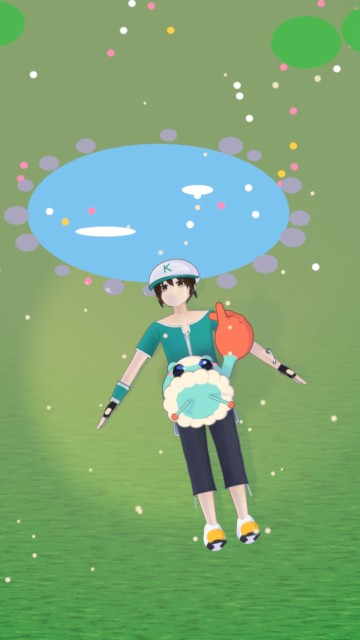
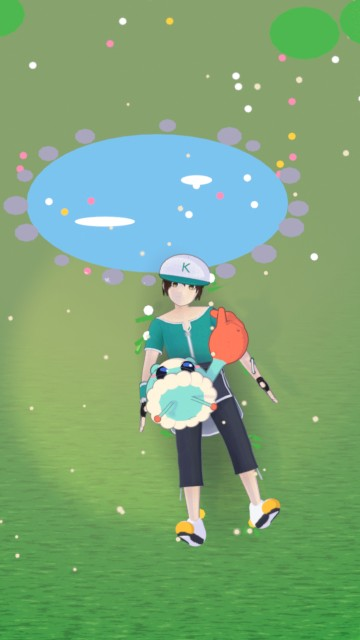
Diorama bGqrs: Kai relaxed on his back (helper 10's LYING_RELAXED with both hands by his hips, head toward the shrimp), contact shadow and grass tufts; S01 smoke and embers drifting over the top third; S01/S17/S18 locked (2D push-ins); bgqrs_post DIORAMA=1: the pushes, S17's drop glint, S18's realis
Claude-Session: https://claude.ai/code/session_01PF511bGqrs1SFn3cpk5NqS

diff --git a/channels/monsters/diorama/bgqrs.py b/channels/monsters/diorama/bgqrs.py
@@ -58,24 +58,56 @@ def _set(n):
     return [(x, y) for x, y, *_ in near]
 
 
+# On his back, relaxed (so it reads as LYING from above, not as a standing T-pose): helper 10's LYING_RELAXED (S15's
+# end) with both arms loose at his sides, hands by his hips (the shrimp sits on his chest), head tilted toward it.
+# Directions in Kai's own frame: +X his right, +Y forward (up once he lies down), +Z toward his head.
+LYING = [("spine", (0, 0, 1)), ("chest", (0, 0, 1)), ("upper_chest", (0, 0, 1)), ("neck", (-0.1, 0.1, 1)),
+         ("head", (-0.4, 0.2, 1)),
+         ("right_upper_arm", (0.45, 0.1, -1)), ("right_lower_arm", (0.3, 0.3, -1)),
+         ("left_upper_arm", (-0.45, 0.1, -1)), ("left_lower_arm", (-0.35, 0.25, -1)),
+         ("left_upper_leg", (-0.12, 0.45, -1)), ("right_upper_leg", (0.15, 0.3, -1)),
+         ("left_lower_leg", (-0.1, -0.2, -1)), ("right_lower_leg", (0.15, -0.12, -1)),
+         ("left_foot", (-0.25, 1, -0.3)), ("right_foot", (0.3, 1, -0.3))]
+
+
 def _kai():
-    """Kai on his back at MAP["kai_down"], face up, arms out loose (knocked flat), head toward the pond."""
+    """Kai on his back at MAP["kai_down"], relaxed (LYING), head toward the pond; a soft contact shadow under him and
+    grass tufts over his outline, so he lies IN the grass."""
+    from channels.monsters.ep01v2 import helper10 as s15
     rig = hero.load((0, 0, 0), scale=s3d.KAI_SCALE, outfit="world")
-    for side, a in (("left", -48), ("right", 48)):
-        b = rig["bone"](f"{side}_upper_arm")
-        b.rotation_mode = "XYZ"
-        b.rotation_euler = (0, 0, math.radians(a))
-    hb = rig["bone"]("head")
-    hb.rotation_mode = "XYZ"
-    hb.rotation_euler = (math.radians(-4), math.radians(-12), 0)     # face up, rolled a touch toward the camera
-    feet = Vector((HIPS[0], HIPS[1], 0)) - UP * 0.5 * 8.7
-    arm = rig["arm"]
-    arm.location = (feet.x, feet.y, 0.55)
-    arm.rotation_mode = "XYZ"
-    arm.rotation_euler = (math.radians(-90), 0, math.radians(HEAD_DIR))
+    rot = (math.pi / 2, 0, math.pi + math.radians(HEAD_DIR))
+    s15._pose(rig, LYING, (HIPS[0], HIPS[1], 0.5), rot)
+    hip = s15._world(rig, "hips")
+    rig["arm"].location += Vector((HIPS[0] - hip.x, HIPS[1] - hip.y, 0))
+    s15._ground(rig)
     bpy.context.view_layer.update()
     hero.line_width(rig, 0.0025)
+    hip = s15._world(rig, "hips")
+    sh = look.blob_shadow("kai_down_shadow", (hip.x, hip.y, 0.03), (1.9, 5.2))
+    sh.rotation_euler = (0, 0, math.radians(HEAD_DIR))
+    _tufts(hip)
     return rig
+
+
+def _tufts(hip, seed=21):
+    """Grass tufts and a few flowers along his outline, overlapping it a little (lit paint, so they take the sun)."""
+    rnd = random.Random(seed)
+    blade = diorama.lit_paint("d16_tuft", "#2f8a36", "#4cb348", "#8fdb62")
+    petals = [diorama.lit_paint(f"d16_flower{i}", *c) for i, c in enumerate((("#c9c9e0", "#ffffff", "#ffffff"),
+                                                                             ("#d9a400", "#ffd23f", "#fff2a8")))]
+    for along, side in ((3.6, 1.15), (2.2, -1.35), (0.6, 1.5), (-0.8, -1.25), (-2.4, 0.95), (-3.6, -0.8),
+                        (-4.2, 0.7), (1.4, 1.6), (3.0, -1.0), (-1.6, 1.3)):
+        c = Vector(hip) + UP * along + EAST * side * rnd.uniform(0.9, 1.1)
+        for k in range(rnd.randint(4, 6)):                         # a clump of blades leaning outward
+            bpy.ops.mesh.primitive_cone_add(vertices=4, radius1=0.09, radius2=0.0, depth=rnd.uniform(0.7, 1.1),
+                                            location=(c.x + rnd.uniform(-0.25, 0.25), c.y + rnd.uniform(-0.25, 0.25),
+                                                      0.4))
+            o = bpy.context.object
+            o.rotation_euler = (rnd.uniform(-0.5, 0.5), rnd.uniform(-0.5, 0.5), rnd.uniform(0, 3))
+            o.data.materials.append(blade)
+        if rnd.random() < 0.5:
+            bpy.ops.mesh.primitive_uv_sphere_add(segments=8, ring_count=5, radius=0.16, location=(c.x, c.y, 0.75))
+            bpy.context.object.data.materials.append(rnd.choice(petals))
 
 
 def _shrimp(rig, n, claw="face"):
@@ -203,8 +235,9 @@ def _move(cam, n, keys, look_at, yaw=0.0):
     return cam
 
 
-def _anchors(shot, cam, rig, sh=None):
-    """Screen positions (720x1280, top-left origin) of his eyes and the claw tip per frame, for the 2D pass."""
+def _anchors(shot, cam, rig, sh=None, extra=None):
+    """Screen positions (720x1280, top-left origin) of his eyes and the claw tip per frame (plus `extra`: name ->
+    fn() -> world point), for the 2D pass."""
     from bpy_extras.object_utils import world_to_camera_view
     sc = bpy.context.scene
     out = {}
@@ -213,6 +246,8 @@ def _anchors(shot, cam, rig, sh=None):
         pts = {k: s3d.kai_point(rig, k) for k in ("eyes", "eye_l", "eye_r", "nose", "temple")}
         if sh is not None:
             pts["tip"] = s3d.claw_tip(sh)
+        for k, fn in (extra or {}).items():
+            pts[k] = fn()
         row = {}
         for k, p in pts.items():
             v = world_to_camera_view(sc, cam, p)
@@ -224,8 +259,53 @@ def _anchors(shot, cam, rig, sh=None):
     sc.frame_set(1)
 
 
-def _ret(n, subject):
-    return dict(frames=n, step=2, ones=(1, n), subject=subject)
+def _ret(n, subject, moving=True):
+    """Characters on 2s; a moving 3D camera renders on 1s. Locked shots get their slow push-in in 2D (TP13: <=10%)."""
+    return dict(frames=n, step=2, ones=(1, n), subject=subject) if moving else dict(frames=n, step=2, subject=subject)
+
+
+def _drift(n, box, seed=13):
+    """Smoke wisps and glowing embers drifting through `box` ((x0, x1), (y0, y1), (z0, z1)) from the north (from the
+    stumps beyond the frame), on 2s: S01's top third, under the hook text."""
+    rnd = random.Random(seed)
+    (x0, x1), (y0, y1), (z0, z1) = box
+    m = meadow.smoke_mat()
+    ember = look.flat("d16_ember", look.hexc("#ff9a4a"), strength=4.0)
+    objs = []
+    for i in range(8):
+        p = bpy.data.objects.new("puff_drift", None)
+        bpy.context.scene.collection.objects.link(p)
+        for k in range(5):
+            bpy.ops.mesh.primitive_uv_sphere_add(segments=16, ring_count=8, radius=rnd.uniform(0.5, 0.95),
+                                                 location=(rnd.uniform(-1.4, 1.4), rnd.uniform(-0.5, 0.5),
+                                                           rnd.uniform(-0.2, 0.3)))
+            lobe = bpy.context.object
+            lobe.data.materials.append(m)
+            lobe.parent = p
+        x, y, z = rnd.uniform(x0, x1), rnd.uniform(y0, y1), rnd.uniform(z0, z1)
+        f0 = rnd.randint(-70, n - 40)                              # pre-rolled: some are mid-drift on frame 1
+        s = rnd.uniform(0.8, 1.3)
+        anim.key(p, "location", f0, (x, y + 4, z), "LINEAR")
+        anim.key(p, "location", f0 + 90, (x + rnd.uniform(1, 3), y - 4, z + 1), "LINEAR")
+        anim.key(p, "scale", f0 - 1, 0.001, "CONSTANT")
+        anim.key(p, "scale", f0, s * 0.5)
+        anim.key(p, "scale", f0 + 45, s)
+        anim.key(p, "scale", f0 + 90, 0.001)
+        objs.append(p)
+    for i in range(22):
+        bpy.ops.mesh.primitive_ico_sphere_add(subdivisions=1, radius=rnd.uniform(0.12, 0.2), location=(0, 0, 0))
+        o = bpy.context.object
+        o.name = "d16_ember"
+        o.data.materials.append(ember)
+        x, y, z = rnd.uniform(x0, x1), rnd.uniform(y0, y1), rnd.uniform(z0, z1)
+        f0 = rnd.randint(-60, n - 10)
+        anim.key(o, "location", f0, (x, y + 4, z), "LINEAR")
+        anim.key(o, "location", f0 + 70, (x + rnd.uniform(0.5, 2.5), y - 5, z + rnd.uniform(-1, 1.5)), "LINEAR")
+        for f in range(f0, f0 + 71, 6):                            # a slow flicker
+            anim.key(o, "scale", f, rnd.uniform(0.6, 1.2), "LINEAR")
+        objs.append(o)
+    anim.on_twos(objs, step=2)
+    return objs
 
 
 # ---------------------------------------------------------------- the shots
@@ -233,17 +313,20 @@ def _ret(n, subject):
 def s01():
     """FRAME 0, the hook: from the south and above, Kai on his back with the shrimp on his chest (its claw cocked at his
     face, eyes locked on), the erased forest's glowing, smoking stumps mid-frame behind them; the big hook text sits
-    over the far forest at the top. Kai whispers (lips on 3s), terror face. A very slow push-in on 1s."""
+    over the far forest at the top, with smoke wisps and embers drifting across the top third (on 2s). Kai whispers
+    (lips on 3s), terror face. Locked camera (step 2); the slow push-in is added in 2D."""
     n, rig, sh, _ = _world("S01")
     t, d, lens, yaw, up = S01_CAM
     aim = s3d.kai_point(rig, "eyes") + UP * up                    # his face mid-frame, the pond above his head
     cam = diorama.camera("cam_s01", aim, dist=d, tilt=t, yaw=yaw, lens=lens, blur=BLUR)
-    _move(cam, n, [(1, t, d, lens), (n, t, d * 0.94, lens)], lambda f: aim, yaw=yaw)
+    _move(cam, n, [(1, t, d, lens), (n, t, d, lens)], lambda f: aim, yaw=yaw)   # locked: the push-in is 2D
+    pond = diorama.MAP["pond"]
+    _drift(n, ((pond[0] - 9, pond[0] + 11), (pond[1] - 1, pond[1] + 9), (2.0, 6.0)))   # the top third
     s3d.kai_face(rig, 1, **s3d.TERROR)
     s3d.whisper(rig, 4, 13, s3d.TERROR)                            # "Don't move." 0.12-0.52 s
     s3d.whisper(rig, 26, 51, s3d.TERROR, seed=5)                   # "That claw can boil water." 1.04-2.12 s
     _anchors("S01", cam, rig, sh)
-    return _ret(n, [rig["arm"], sh["root"]] + list(rig.get("cap", [])))
+    return _ret(n, [rig["arm"], sh["root"]] + list(rig.get("cap", [])), moving=False)
 
 
 def s16():
@@ -272,7 +355,7 @@ def s16():
 
 
 def s17():
-    """Then I saw the drops. Close and looking down (tilt 62) on his chest: the claw reaches down over his jacket, a
+    """Then I saw the drops. Close, locked and looking down (tilt 62) on his chest: the claw reaches down over his jacket, a
     drop swells at its tip (diorama scale, so it reads from up here), lets go at f17, lands on the jacket at f23
     ("drops") and leaves a dark wet splat; the next drop swells from f34. Same frames as the 3D S17."""
     n, rig, sh, _ = _world("S17", claw="jacket")
@@ -280,7 +363,7 @@ def s17():
     tip = s3d.claw_tip(sh) - Vector((0, 0, r * 0.9))
     land, nrm, mat = _hit(tip)
     drop_m = look.flat("drip", look.hexc("#9fd8ff"))
-    s3d._drop(tip, 1, 17, 23, land + nrm * r * 0.6, r=r, mat=drop_m)
+    d1 = s3d._drop(tip, 1, 17, 23, land + nrm * r * 0.6, r=r, mat=drop_m)
     s3d._drop(tip, 34, n + 20, n + 26, land, r=r, mat=drop_m)
     bpy.ops.mesh.primitive_circle_add(vertices=32, radius=1.0, fill_type="NGON", location=land + nrm * 0.02)
     spot = bpy.context.object
@@ -293,28 +376,29 @@ def s17():
         anim.key(spot, "scale", f, (s, s * 0.8, 1), "LINEAR" if f > 23 else "CONSTANT")
     tgt = tip.lerp(land, 0.5)
     cam = diorama.camera("cam_s17", tgt, dist=50.0, tilt=62.0, lens=120.0, blur=BLUR)
-    _move(cam, n, [(1, 62.0, 50.0, 120.0), (n, 62.0, 45.0, 120.0)], lambda f: tgt)
+    _move(cam, n, [(1, 62.0, 50.0, 120.0), (n, 62.0, 50.0, 120.0)], lambda f: tgt)   # locked: the push-in is 2D
     s3d.kai_face(rig, 1, **s3d.TERROR)
-    _anchors("S17", cam, rig, sh)
+    _anchors("S17", cam, rig, sh, extra={"drop": lambda: d1.matrix_world.translation.copy()})
     print("S17 drop lands on", mat, flush=True)
-    return _ret(n, [sh["root"]])
+    return _ret(n, [sh["root"]], moving=False)
 
 
 def s18():
-    """Its claw only works wet. Close on his face from above (tilt 76, the face turned up to the lens), a slow push-in:
+    """Its claw only works wet. Close on his face from above (tilt 76, the face turned up to the lens), locked (the push
+    and the snap-zoom are 2D):
     wide eyes, then they narrow in two steps as the thought lands on "wet" (f15, f30, f33, as in 3D). The real
     background is swapped for the realisation background in 2D (subject pass)."""
     n, rig, sh, _ = _world("S18")
     tgt = s3d.kai_point(rig, "eyes") - UP * 0.6
     cam = diorama.camera("cam_s18", tgt, dist=50.0, tilt=76.0, lens=120.0, blur=BLUR)
-    _move(cam, n, [(1, 76.0, 50.0, 120.0), (n, 76.0, 45.0, 120.0)], lambda f: tgt)
+    _move(cam, n, [(1, 76.0, 50.0, 120.0), (n, 76.0, 50.0, 120.0)], lambda f: tgt)   # locked: push + snap in 2D
     k = s3d.kai_face
     k(rig, 1, **s3d.TERROR)
     k(rig, 15, eye_open=0.4, eye_brow_up=0.4)                      # thinking ("claw only")
     k(rig, 30, eye_zitome=0.5, eye_brow_down=0.3)                  # "wet": the thought lands
     k(rig, 33, eye_zitome=0.85, eye_brow_down=0.6)                 # narrowed: he gets it
     _anchors("S18", cam, rig, sh)
-    return _ret(n, [rig["arm"]] + list(rig.get("cap", [])))
+    return _ret(n, [rig["arm"], sh["root"]] + list(rig.get("cap", [])), moving=False)
 
 
 SHOTS = {"S01": s01, "S16": s16, "S17": s17, "S18": s18}

diff --git a/channels/monsters/ep01v2/bgqrs_post.py b/channels/monsters/ep01v2/bgqrs_post.py
@@ -2,6 +2,7 @@
 comp.py over the Blender frames, then the mp4 and contact sheet for out/monsters/ep01v2/shots/.
 
     FPS=24 python channels/monsters/ep01v2/bgqrs_post.py S19 [S20 ...]
+    DIORAMA=1 FPS=24 python channels/monsters/ep01v2/bgqrs_post.py S17     (the diorama cut, DIORAMA_EP01.md)
 
 Needs a venv with pycairo, numpy, scipy, opencv-python-headless and pillow, plus ffmpeg (helpers 5 and 6: fx2d
 imports scipy). Reads build/monsters/ep01v2/<SHOT>/0001.png ... (render_shot.py output; subject/ when rendered with --subject) and
@@ -22,8 +23,9 @@ from PIL import Image  # noqa: E402
 from motion.engine import H, W, cairo, clamp01, ease_out  # noqa: E402
 from channels.monsters import comp, fx2d, fx2d_anime, fx2d_extra  # noqa: E402
 
-BUILD = os.path.join(ROOT, "build", "monsters", "ep01v2")
-SHOTS_OUT = os.path.join(ROOT, "out", "monsters", "ep01v2", "shots")
+DIORAMA = os.environ.get("DIORAMA") == "1"
+BUILD = os.path.join(ROOT, "build", "monsters", "diorama" if DIORAMA else "ep01v2")
+SHOTS_OUT = os.path.join(ROOT, "out", "monsters", "diorama" if DIORAMA else "ep01v2", "shots")
 FPS = 24
 # render.py's output hygiene: no container metadata, no encoder tags, no x264 settings SEI
 CLEAN = ["-map_metadata", "-1", "-map_chapters", "-1", "-fflags", "+bitexact", "-flags:v", "+bitexact",
@@ -183,8 +185,41 @@ def puff(cr, t, start, x, y, size=1.0, seed=0):
 
 # ---------------------------------------------------------------- the shots' 2D
 
+def drop_glint(cr, t, a, f0, f1, size=22):
+    """A sparkle riding the falling drop (anchor "drop") from frame f0 to f1, so the drop reads at phone size."""
+    f = int(round(t * FPS)) + 1
+    if f0 <= f <= f1:
+        x, y = a[f]["drop"]
+        u = (f - f0 + 0.5) / (f1 - f0 + 1)
+        fx2d_extra._sparkle(cr, x + 6, y - 8, size * (0.6 + 0.4 * math.sin(math.pi * u)), (1, 1, 1), 1.0, rot=0.3)
+
+
+def diorama_overlays(shot):
+    """The diorama cut's 2D (coordinator, 31 Oct): the slow push-ins of the locked shots (TP13), S17's drop glint and
+    S18's realisation background with the 18% snap-zoom, as in 3D. S16's push is in 3D."""
+    a = anchors(shot)
+    n = max(a)
+    ex, ey = at(a, 0.0, "eyes")
+    if shot == "S01":
+        return [(push, dict(start=0.0, end=n / FPS, cx=ex, cy=ey, amount=0.06))]
+    if shot == "S17":
+        dx, dy = at(a, 20 / FPS, "drop")
+        return [(drop_glint, dict(a=a, f0=17, f1=23)),
+                (push, dict(start=0.0, end=n / FPS, cx=dx, cy=dy, amount=0.10))]
+    if shot == "S18":
+        ex, ey = at(a, 32 / FPS, "eyes")
+        return [(comp.backdrop, dict(start=29 / FPS, end=99, fn=fx2d_anime.emotion_bg,
+                                     args=dict(mood="realisation", cx=ex, cy=ey))),
+                (glint, dict(start=32 / FPS, x=ex + 30, y=ey - 18, size=18)),
+                (snap_zoom, dict(start=29 / FPS, cx=ex, cy=ey)),
+                (push, dict(start=0.0, end=n / FPS, cx=ex, cy=ey, amount=0.06))]
+    return []
+
+
 def overlays(shot):
     """Shot-local overlays [(fn, kwargs)] for each shot."""
+    if DIORAMA:
+        return diorama_overlays(shot)
     if shot in ("S01", "S16"):                                    # frame 0 (and its rhyme): pin-prick terror + sweat
         a = anchors(shot)
         t0 = 0.0 if shot == "S01" else 41 / FPS                   # S16: from his terror on the wide (frame 42)
